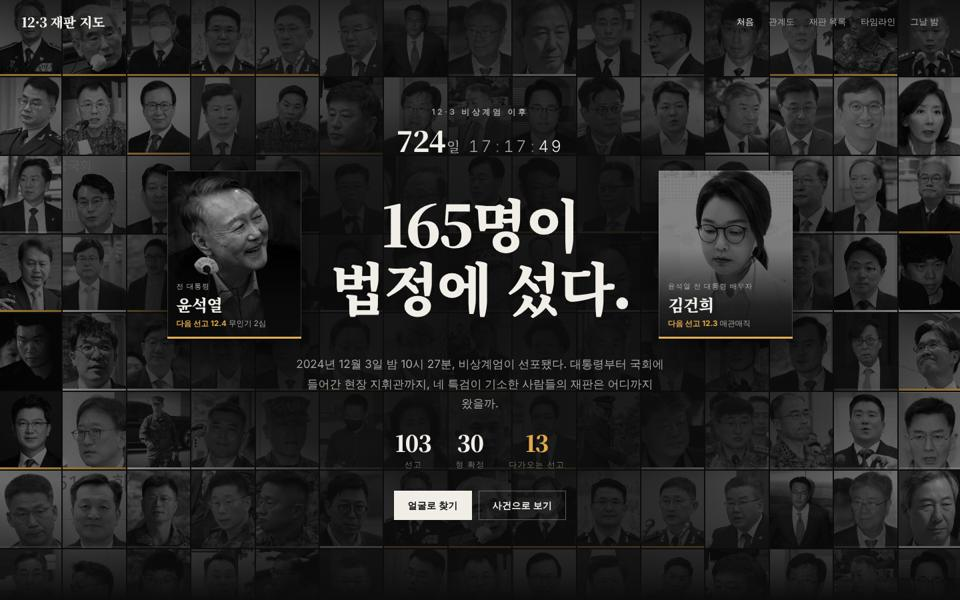
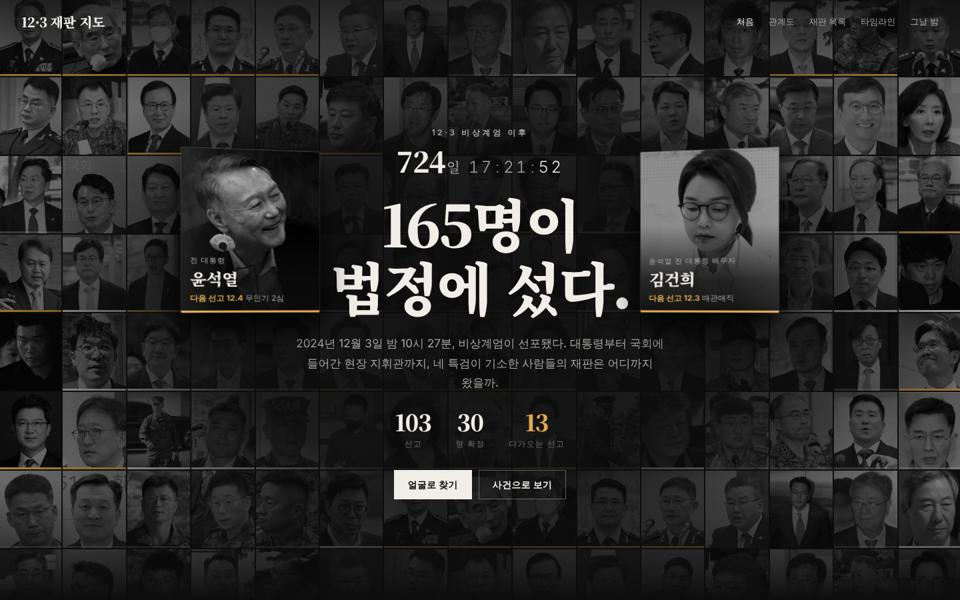
시안 2: 두 사람 사진을 얼굴 벽 칸에 끼워 입체감 있게
Claude-Session: https://claude.ai/code/session_01SN42CiidXmnPBLY7TKBFnm

Changed region(s): [[0.3125, 0.24, 0.8438, 0.87], [0.1562, 0.24, 0.3438, 0.57], [0.4062, 0.18, 0.5938, 0.3]]

diff --git a/drafts/home-2.html b/drafts/home-2.html
@@ -48,21 +48,31 @@ body { margin: 0; background: var(--bg); color: var(--fg); font-family: var(--sa
 .clock span i { font-style: normal; color: var(--fg-3); margin: 0 .1em; }
 .clock span em { font-style: normal; color: var(--fg); }
 /* 문장 양옆에 두 사람 */
-.headrow { display: grid; grid-template-columns: minmax(0, 1fr) auto minmax(0, 1fr); align-items: center; gap: clamp(24px, 3vw, 48px); margin-top: 22px; }
-.hero h1 { margin: 0; font-family: var(--serif); font-size: clamp(44px, 6vw, 88px); font-weight: 900; line-height: 1.1; letter-spacing: -.04em; white-space: nowrap; }
-.pf { position: relative; width: clamp(150px, 14vw, 212px); aspect-ratio: 4 / 5; overflow: hidden; background: #18181a; text-align: left; box-shadow: 0 24px 48px rgba(0,0,0,.55); }
-.headrow .pf:first-child { justify-self: end; }
-.headrow .pf:last-child { justify-self: start; }
-.pf::after { content: ''; position: absolute; inset: 0; border: 1px solid rgba(241,238,232,.18); pointer-events: none; }
-.pf img { position: absolute; inset: 0; width: 100%; height: 100%; object-fit: cover; filter: grayscale(1) contrast(1.1) brightness(.9); }
-.pf.k img { filter: grayscale(1) contrast(1.15) brightness(.5); } /* 원본이 밝은 사진: 두 사람 밝기 맞춤 */
-.pf .shade { position: absolute; inset: 0; background: linear-gradient(180deg, rgba(12,12,13,0) 46%, rgba(12,12,13,.8) 80%, rgba(12,12,13,.95) 100%); }
-.pf .lab { position: absolute; left: 0; right: 0; bottom: 0; padding: 12px 14px 15px; }
-.pf .lab small { display: block; font-size: 10.5px; letter-spacing: .1em; color: var(--fg-2); }
-.pf .lab b { display: block; margin-top: 2px; font-family: var(--serif); font-size: clamp(20px, 1.7vw, 25px); font-weight: 900; letter-spacing: -.03em; }
-.pf .lab span { display: block; margin-top: 4px; font-size: 11.5px; color: var(--fg-2); white-space: nowrap; }
-.pf .lab span em { font-style: normal; font-weight: 700; color: var(--amber); }
-.pf .bar3 { position: absolute; left: 0; right: 0; bottom: 0; height: 3px; background: var(--amber); }
+.headrow { margin-top: 22px; }
+.hero h1 { margin: 0; font-family: var(--serif); font-size: clamp(44px, 6vw, 88px); font-weight: 900; line-height: 1.1; letter-spacing: -.04em; white-space: nowrap; display: inline-block; }
+/* 두 사람: 얼굴 벽의 2×2칸에 끼워 넣고, 문장 쪽으로 살짝 돌아 앞으로 나온 입체감 */
+.t.slot img { opacity: 0; }
+.t.slot { background: #050506; box-shadow: inset 0 10px 24px rgba(0,0,0,.9), inset 0 0 0 1px rgba(0,0,0,.6); } /* 빠져나온 자리: 패인 홈 */
+.t.slot::after { display: none; }
+.lifts { position: absolute; inset: 0; z-index: 2; pointer-events: none; perspective: 1100px; }
+.lift { position: absolute; margin: 0; overflow: visible; transform-style: preserve-3d; opacity: 0; transition: opacity .6s .2s;
+  transform: rotateY(var(--ry)) translateZ(46px); }
+.lift.on { opacity: 1; }
+.lift .card { position: absolute; inset: 0; overflow: hidden; background: #18181a; border-radius: 1px;
+  box-shadow: 0 34px 60px -10px rgba(0,0,0,.85), 0 12px 24px rgba(0,0,0,.6), 0 0 0 1px rgba(241,238,232,.22); }
+.lift .card::before { content: ''; position: absolute; inset: 0; z-index: 2; pointer-events: none; /* 빛이 문장 쪽에서 비치는 듯한 광택 */
+  background: linear-gradient(var(--sheen), rgba(255,255,255,.12), rgba(255,255,255,0) 42%); }
+.lift img { position: absolute; inset: 0; width: 100%; height: 100%; object-fit: cover; filter: grayscale(1) contrast(1.1) brightness(.92); }
+.lift.k img { filter: grayscale(1) contrast(1.15) brightness(.55); } /* 원본이 밝은 사진: 두 사람 밝기 맞춤 */
+.lift .shade { position: absolute; inset: 0; background: linear-gradient(180deg, rgba(12,12,13,0) 46%, rgba(12,12,13,.8) 80%, rgba(12,12,13,.95) 100%); }
+.lift .lab { position: absolute; left: 0; right: 0; bottom: 0; z-index: 1; padding: 10px 12px 13px; text-align: left; }
+.lift .lab small { display: block; font-size: 10px; letter-spacing: .1em; color: var(--fg-2); }
+.lift .lab b { display: block; margin-top: 1px; font-family: var(--serif); font-size: clamp(18px, 1.6vw, 24px); font-weight: 900; letter-spacing: -.03em; }
+.lift .lab span { display: block; margin-top: 3px; font-size: 11px; color: var(--fg-2); white-space: nowrap; }
+.lift .lab span em { font-style: normal; font-weight: 700; color: var(--amber); }
+.lift .bar3 { position: absolute; left: 0; right: 0; bottom: 0; z-index: 1; height: 3px; background: var(--amber); }
+#liftY { --ry: 11deg; --sheen: 100deg; }
+#liftK { --ry: -11deg; --sheen: 260deg; }
 .hero p { margin: 24px auto 0; max-width: 34em; font-size: 17px; line-height: 1.75; color: var(--fg-2); }
 .stats { display: flex; justify-content: center; gap: 36px; margin-top: 26px; }
 .stats div { text-align: center; }
@@ -91,7 +101,7 @@ body { margin: 0; background: var(--bg); color: var(--fg); font-family: var(--sa
 
 @media (max-width: 900px) {
   .bar { padding: 14px 16px; } .bar nav { display: none; }
-  .grid { grid-template-columns: repeat(auto-fill, minmax(64px, 1fr)); grid-auto-rows: 82px; }
+  .grid { grid-template-columns: repeat(auto-fill, minmax(44px, 1fr)); grid-auto-rows: 56px; }
   .t.big { grid-column: span 1; grid-row: span 1; } /* 좁은 화면: 가운데 문장과 겹치지 않게 같은 크기로 */
   .t.big::before { display: none; }
   .veil { background: radial-gradient(ellipse 80% 46% at 50% 54%, rgba(12,12,13,.96) 0%, rgba(12,12,13,.86) 50%, rgba(12,12,13,.4) 85%, rgba(12,12,13,.2) 100%),
@@ -103,12 +113,12 @@ body { margin: 0; background: var(--bg); color: var(--fg); font-family: var(--sa
   .hero { position: relative; inset: auto; padding: 84px 16px 40px; }
   .clock b { font-size: 30px; }
   .clock span { font-size: 17px; }
-  .headrow { gap: 10px; margin-top: 20px; }
-  .hero h1 { font-size: clamp(28px, 8.4vw, 40px); }
-  .pf { width: 100%; max-width: 120px; }
-  .pf .lab { padding: 8px 8px 10px; }
-  .pf .lab small, .pf .lab span { display: none; }
-  .pf .lab b { font-size: 15px; }
+  .headrow { margin-top: 20px; }
+  .hero h1 { font-size: clamp(22px, 6.6vw, 30px); }
+  .lift .lab { padding: 6px 7px 8px; }
+  .lift .lab small, .lift .lab span { display: none; }
+  .lift .lab b { font-size: 14px; }
+  #liftY { --ry: 9deg; } #liftK { --ry: -9deg; }
   .hero p { font-size: 15px; }
   .stats { gap: 22px; } .stats b { font-size: 26px; }
   .below { grid-template-columns: 1fr; gap: 36px; padding: 28px 16px 48px; }
@@ -123,16 +133,16 @@ body { margin: 0; background: var(--bg); color: var(--fg); font-family: var(--sa
 <section class="wall">
   <div class="grid" id="grid" aria-hidden="true"></div>
   <div class="veil"></div>
+  <div class="lifts" aria-hidden="true">
+    <figure class="lift" id="liftY"><div class="card"><img src="../assets/clock-yoon.jpg" alt="" style="object-position:50% 25%"><div class="shade"></div>
+      <figcaption class="lab"><small>전 대통령</small><b>윤석열</b><span><em>다음 선고 12.4</em> 무인기 2심</span></figcaption><i class="bar3"></i></div></figure>
+    <figure class="lift k" id="liftK"><div class="card"><img src="../assets/clock-keon.jpg" alt="" style="object-position:50% 35%"><div class="shade"></div>
+      <figcaption class="lab"><small>윤석열 전 대통령 배우자</small><b>김건희</b><span><em>다음 선고 12.3</em> 매관매직</span></figcaption><i class="bar3"></i></div></figure>
+  </div>
   <div class="hero"><div>
     <div class="eyebrow">12·3 비상계엄 이후</div>
     <div class="clock" id="clock" role="timer"><b>724<small>일</small></b><span>16<i>:</i>52<i>:</i><em>49</em></span></div>
-    <div class="headrow">
-      <div class="pf"><img src="../assets/clock-yoon.jpg" alt="" style="object-position:50% 25%"><div class="shade"></div>
-        <div class="lab"><small>전 대통령</small><b>윤석열</b><span><em>다음 선고 12.4</em> 무인기 2심</span></div><i class="bar3"></i></div>
-      <h1>165명이<br>법정에 섰다.</h1>
-      <div class="pf k"><img src="../assets/clock-keon.jpg" alt="" style="object-position:50% 35%"><div class="shade"></div>
-        <div class="lab"><small>윤석열 전 대통령 배우자</small><b>김건희</b><span><em>다음 선고 12.3</em> 매관매직</span></div><i class="bar3"></i></div>
-    </div>
+    <div class="headrow"><h1 id="headline">165명이<br>법정에 섰다.</h1></div>
     <p>2024년 12월 3일 밤 10시 27분, 비상계엄이 선포됐다. 대통령부터 국회에 들어간 현장 지휘관까지, 네 특검이 기소한 사람들의 재판은 어디까지 왔을까.</p>
     <div class="stats"><div><b>103</b><span>선고</span></div><div><b>30</b><span>형 확정</span></div><div class="next"><b>13</b><span>다가오는 선고</span></div></div>
     <div class="cta"><span>얼굴로 찾기</span><span>사건으로 보기</span></div>
@@ -186,6 +196,30 @@ body { margin: 0; background: var(--bg); color: var(--fg); font-family: var(--sa
   const tick = () => { let s = Math.floor((Date.now() - START) / 1000); const d = Math.floor(s / 86400); s %= 86400; const h = Math.floor(s / 3600); s %= 3600; const m = Math.floor(s / 60); s %= 60;
     clock.innerHTML = `<b>${d.toLocaleString('ko-KR')}<small>일</small></b><span>${pad(h)}<i>:</i>${pad(m)}<i>:</i><em>${pad(s)}</em></span>`; clock.setAttribute('aria-label', `${d}일 ${h}시간 ${m}분 지났습니다`); };
   tick(); setInterval(tick, 1000);
+  const wall = document.querySelector('.wall'), grid = document.getElementById('grid'), h1 = document.getElementById('headline');
+  const lifts = { Y: document.getElementById('liftY'), K: document.getElementById('liftK') };
+  function place() {
+    const tiles = [...grid.children]; if (!tiles.length) return;
+    tiles.forEach(t => t.classList.remove('slot'));
+    const W = wall.getBoundingClientRect(), t0 = tiles[0].getBoundingClientRect();
+    const cols = tiles.filter(t => Math.abs(t.getBoundingClientRect().top - t0.top) < 1).length;
+    const cw = t0.width, ch = t0.height, gap = 2;
+    const x = c => t0.left - W.left + c * (cw + gap), y = r => t0.top - W.top + r * (ch + gap);
+    const H = h1.getBoundingClientRect(), hl = H.left - W.left, hr = H.right - W.left, hc = (H.top + H.bottom) / 2 - W.top;
+    const r0 = Math.max(0, Math.round((hc - (ch * 2 + gap) / 2 - y(0)) / (ch + gap))); // 문장 높이 가운데에 맞춘 줄
+    const room = innerWidth < 600 ? 6 : 14; // 문장과 사진 사이 최소 간격
+    let cl = -1; for (let c = 0; c < cols - 1; c++) if (x(c) + 2 * cw + gap <= hl - room) cl = c; // 문장 왼쪽에 가장 가까운 2칸
+    let cr = cols; for (let c = cols - 2; c >= 0; c--) if (x(c) >= hr + room) cr = c; // 문장 오른쪽에 가장 가까운 2칸
+    const put = (el, c) => {
+      if (c < 0 || c > cols - 2) { el.classList.remove('on'); return; }
+      Object.assign(el.style, { left: x(c) + 'px', top: y(r0) + 'px', width: 2 * cw + gap + 'px', height: 2 * ch + gap + 'px' });
+      [[r0, c], [r0, c + 1], [r0 + 1, c], [r0 + 1, c + 1]].forEach(([r, k]) => tiles[r * cols + k]?.classList.add('slot'));
+      el.classList.add('on');
+    };
+    put(lifts.Y, cl); put(lifts.K, cr);
+  }
+  addEventListener('resize', () => { clearTimeout(place.t); place.t = setTimeout(place, 120); });
+  (document.fonts ? document.fonts.ready : Promise.resolve()).then(place); setTimeout(place, 300);
 })();
 </script>
 </body>
